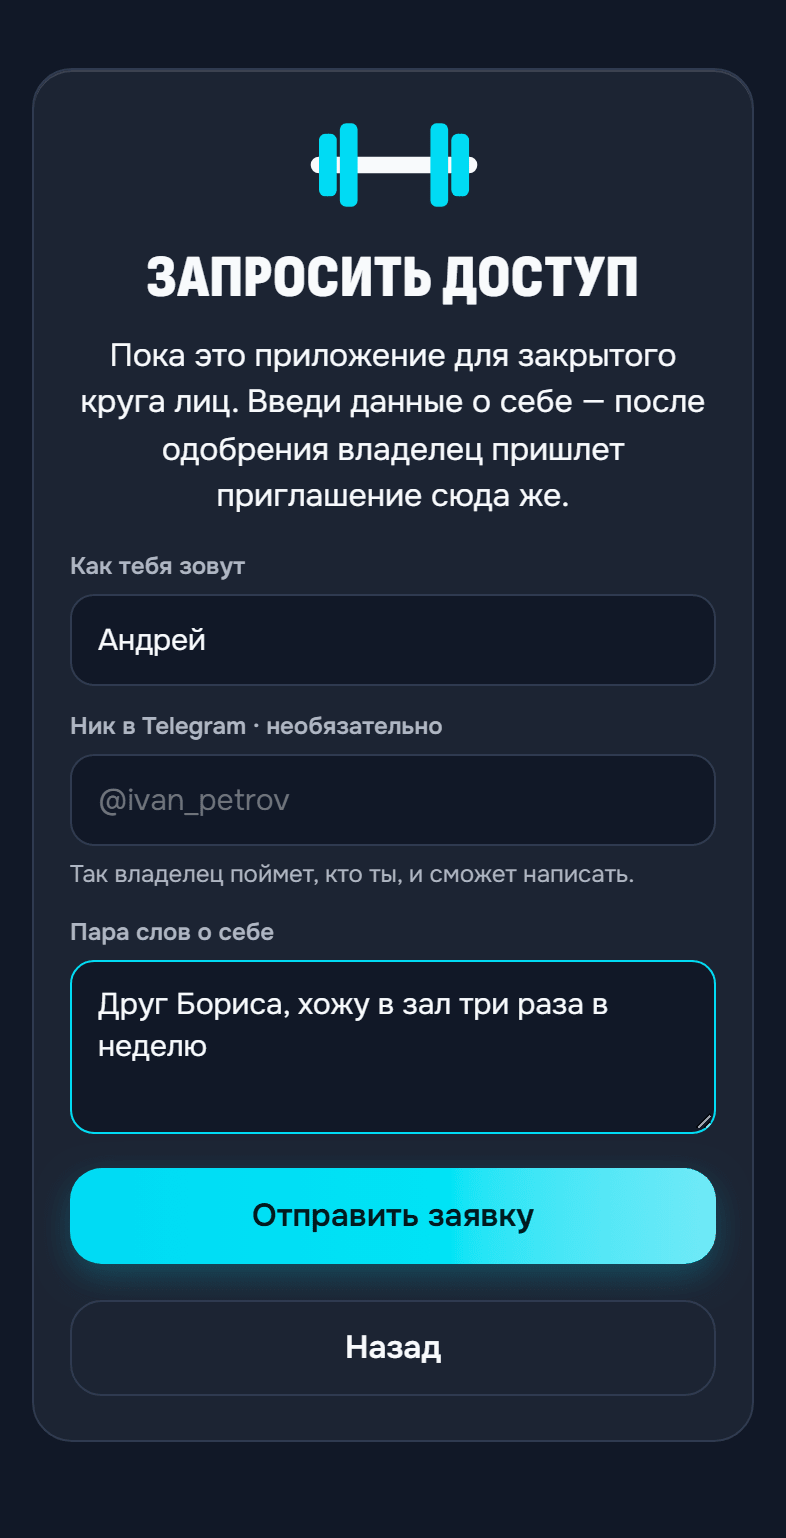
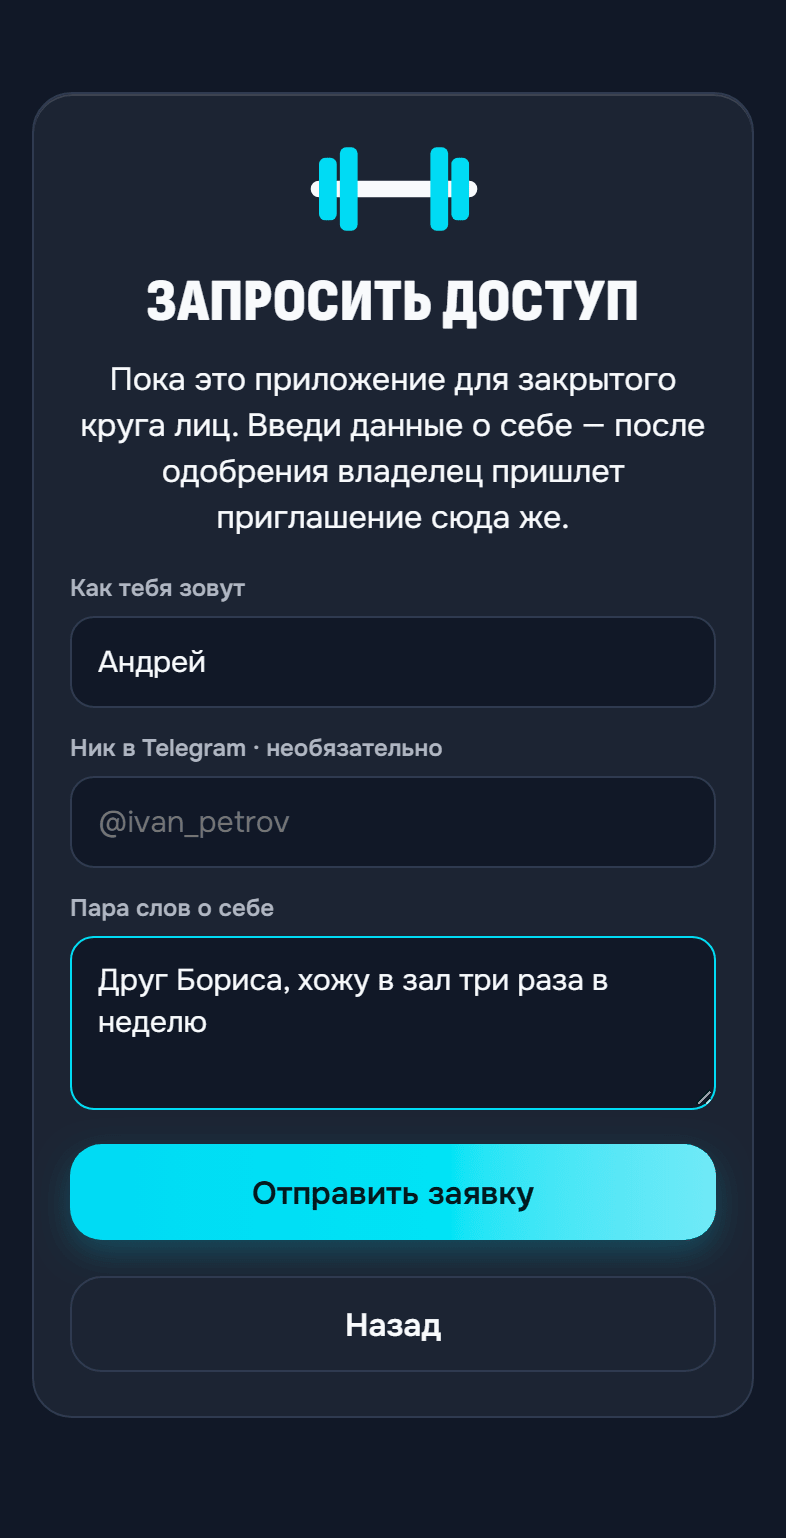
fix(auth): короткие подписи входа и заявки

Changed region(s): [[0.0611, 0.0312, 0.9466, 0.6866], [0.0916, 0.7178, 0.916, 0.9051], [0.8855, 0.8739, 0.916, 0.9051]]

diff --git a/src/screens/LoginScreen.test.jsx b/src/screens/LoginScreen.test.jsx
@@ -115,7 +115,7 @@ describe('LoginScreen', () => {
     const onLogin = vi.fn()
     render(<LoginScreen onLogin={onLogin} />)
     fireEvent.change(await screen.findByLabelText('Логин'), { target: { value: 'анечка' } })
-    fireEvent.change(screen.getByLabelText('PIN — 4 цифры'), { target: { value: '12a34' } })
+    fireEvent.change(screen.getByLabelText('PIN'), { target: { value: '12a34' } })
     fireEvent.click(screen.getByRole('button', { name: 'Войти' }))
     await waitFor(() => expect(onLogin).toHaveBeenCalled())
     expect(auth.loginByName).toHaveBeenCalledWith('анечка', '1234')
@@ -127,10 +127,10 @@ describe('LoginScreen', () => {
     render(<LoginScreen onLogin={() => {}} />)
     fireEvent.click(await screen.findByRole('button', { name: 'Войти в другую учетку' }))
     fireEvent.change(screen.getByLabelText('Логин'), { target: { value: 'Кто-то' } })
-    fireEvent.change(screen.getByLabelText('PIN — 4 цифры'), { target: { value: '0000' } })
+    fireEvent.change(screen.getByLabelText('PIN'), { target: { value: '0000' } })
     fireEvent.click(screen.getByRole('button', { name: 'Войти' }))
     expect(await screen.findByRole('alert')).toHaveTextContent('Логин или PIN не подходят')
-    expect(screen.getByLabelText('PIN — 4 цифры')).toHaveValue('')
+    expect(screen.getByLabelText('PIN')).toHaveValue('')
   })
 
   it('вход по имени офлайн — сразу понятный отказ, без запроса', async () => {
@@ -138,7 +138,7 @@ describe('LoginScreen', () => {
     vi.mocked(auth.knownAccounts).mockResolvedValue([])
     render(<LoginScreen onLogin={() => {}} />)
     fireEvent.change(await screen.findByLabelText('Логин'), { target: { value: 'Дима' } })
-    fireEvent.change(screen.getByLabelText('PIN — 4 цифры'), { target: { value: '1234' } })
+    fireEvent.change(screen.getByLabelText('PIN'), { target: { value: '1234' } })
     fireEvent.click(screen.getByRole('button', { name: 'Войти' }))
     expect(await screen.findByRole('alert')).toHaveTextContent(/только онлайн/)
     expect(auth.loginByName).not.toHaveBeenCalled()

diff --git a/src/components/auth/NameLoginForm.jsx b/src/components/auth/NameLoginForm.jsx
@@ -31,16 +31,15 @@ export default function NameLoginForm({ onLogin, showError, error, setError }) {
   return (
     <form className="invite-form" onSubmit={submit} noValidate>
       <div className="field">
-        <label className="field-lab" htmlFor="login-name">Логин</label>
+        <label className="sr-only" htmlFor="login-name">Логин</label>
         <input id="login-name" className="admin-input" type="text" maxLength={60} autoComplete="username"
-          autoCapitalize="none" autoCorrect="off" spellCheck={false} aria-describedby="login-hint"
+          autoCapitalize="none" autoCorrect="off" spellCheck={false} placeholder="Логин"
           value={name} disabled={busy} onChange={(e) => { setName(e.target.value); setError('') }} />
-        <span className="field-hint" id="login-hint">Еще нет логина — введи свое имя, как раньше.</span>
       </div>
       <label className="field">
-        <span className="field-lab">PIN — 4 цифры</span>
+        <span className="sr-only">PIN</span>
         <input className="pin-input" type="password" inputMode="numeric" maxLength={4}
-          autoComplete="current-password" placeholder="••••" value={pin} disabled={busy}
+          autoComplete="current-password" placeholder="PIN" value={pin} disabled={busy}
           onChange={(e) => { setPin(onlyDigits(e.target.value).slice(0, 4)); setError('') }} />
       </label>
       {error && <p className="error" role="alert">{error}</p>}

diff --git a/src/components/auth/JoinRequestForm.jsx b/src/components/auth/JoinRequestForm.jsx
@@ -44,7 +44,6 @@ export default function JoinRequestForm({ onSubmitted, onBack }) {
         <input className="admin-input" type="text" maxLength={64} autoComplete="off" autoCapitalize="none"
           autoCorrect="off" spellCheck={false} placeholder="@ivan_petrov" value={tg} disabled={busy}
           onChange={(e) => { setTg(e.target.value); setError('') }} />
-        <span className="field-hint">Так владелец поймет, кто ты, и сможет написать.</span>
       </label>
       <label className="field">
         <span className="field-lab">Пара слов о себе</span>

diff --git a/src/screens/LoginScreen.jsx b/src/screens/LoginScreen.jsx
@@ -261,7 +261,7 @@ export default function LoginScreen({ onLogin, onInvite }) {
           <BackButton onClick={goPick} label="Выбрать другого" />
         </div>
         <h2 className="title">{selected.name}</h2>
-        <p className="muted login-sub">Введи PIN — 4 цифры</p>
+        <p className="muted login-sub">Введи PIN</p>
 
         <PinPad length={pin.length} busy={busy} error={error} onDigit={pressDigit} onBackspace={backspace} />
         <div className="login-alt">

diff --git a/public/push-sw.js b/public/push-sw.js
@@ -9,7 +9,7 @@
 
 // Версия этого файла (v8.9.6) = версия приложения; сверяет тест src/lib/pushIntent.test.js.
 // Отвечает на «пинг» журнала нажатий: так видно, что пуши обрабатывает свежий код.
-const PUSH_SW_VER = '1.9.1'
+const PUSH_SW_VER = '1.9.2'
 
 self.addEventListener('push', (event) => {
   let data

diff --git a/src/content/whatsNew.js b/src/content/whatsNew.js
@@ -28,7 +28,7 @@
 
 export const WHATS_NEW = [
   {
-    version: '1.9.1',
+    version: '1.9.2',
     date: '2026-11-03',
     headline: 'Переезжаем на новый адрес',
     main: [

diff --git a/docs/quick-start.md b/docs/quick-start.md
@@ -2,13 +2,6 @@
 
 Краткая инструкция по **kachalka-app**: как получить доступ, записать первую тренировку и разобраться с основными возможностями приложения.
 
-Если приложение покажет «Переезжаем на новый адрес», нажми «Как перейти».
-Сначала сохрани незавершенную тренировку, затем выбери «Проверить данные и перейти».
-При ошибке проверки останься на старом адресе и проверь синхронизацию в профиле.
-На новом адресе войди с прежними логином и PIN, проверь тренировки, установи приложение
-на экран телефона и заново включи уведомления. Если на устройстве несколько учеток,
-повтори проверку для каждой. Старую иконку и данные браузера удаляй только после этого.
-
 ## 1. Регистрация и вход
 
 Попасть в kachalka-app можно несколькими способами:

diff --git a/README.md b/README.md
@@ -174,4 +174,4 @@ kachalka-app можно добавить на главный экран теле
 
 ---
 
-**kachalka-app · v1.9.1**
+**kachalka-app · v1.9.2**
